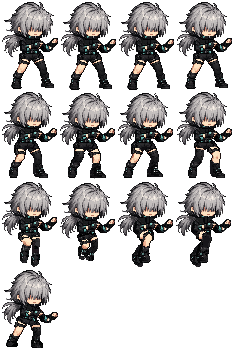
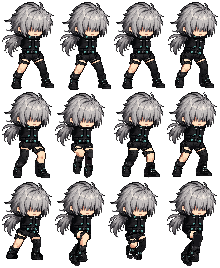
feat: 팔 없는 플레이어 스프라이트 적용과 포즈별 리그 앵커 도입
몸통 그림에서 앞팔이 빠진 스프라이트로 교체하고, 그 결과 드러난 팔 위치
문제를 고침. 프레임 13개와 애니메이션 태그 배분(idle 0~3, jump 4~6,
run 7~12)은 그대로이고 트림 정렬도 동일해 로더·애니 설정은 안 건드림.

- 팔꿈치를 실루엣 가장자리에서 4px 안으로 옮김(8 → 4). 뒷팔은 먼 쪽 팔이라
  어깨가 몸통 뒤에 있어야 하는데 가장자리에 정확히 걸려 있었고, 팔 그림은
  팔꿈치 쪽이 1px로 뾰족해 다섯 번째 열에 가서야 8px 두께가 됨. 회전할
  때마다 그 테이퍼와 몸통 사이가 벌어졌음. 서 있는 12개 프레임 전부에서
  오른쪽 여유 4px 확인(기울어진 run 프레임만 2px)
- 낙하 포즈용 앵커를 따로 둠. 이 포즈는 몸이 말리며 어깨가 y=57.5로
  11.5px 내려가는데 앵커가 한 점에 고정돼 팔이 가슴에 붙어 있었음
- 무기 그립도 같은 포즈에서 13px 내림. 어깨만 내리면 팔이 총열에 닿지
  못함 — 조준 범위 전체에서 최대 7.3px 부족하고 팔꿈치 값을 어떻게 잡아도
  해결되지 않음. 어긋난 쪽이 총이기 때문. 둘을 함께 내리면 오차 0
- 앵커 값은 이전 스프라이트와의 픽셀 diff로 측정. 사라진 픽셀이 앞팔이고
  그것이 몸통과 만나는 자리가 어깨임

테스트 3개 추가
- 낙하 앵커가 어깨를 따라 내려감
- 낙하 앵커에서도 아래팔이 그려진 길이를 유지 — 위 그립 문제를 잡은 검사
- 오버라이드 키가 실제 재생되는 프레임임

알려진 미완: 앞팔 스프라이트가 없어 어깨에서 손으로 이어지는 팔이 그려지지
않음. 리그는 뒷팔만 별도 레이어로 갖고 있고 앞팔은 몸통 그림의 일부라는
전제로 만들어졌는데, 이번 교체로 그 전제가 깨짐.

diff --git a/client/src/game/systems/backArmPose.test.ts b/client/src/game/systems/backArmPose.test.ts
@@ -1,5 +1,14 @@
 import { describe, expect, it } from 'vitest';
-import { BACK_ARM } from '@/game/config/playerRigConfig';
+import {
+  PLAYER_IDLE_FRAMES,
+  PLAYER_JUMP_FRAMES,
+  PLAYER_RUN_FRAMES,
+} from '@/game/config/playerAnimationConfig';
+import {
+  BACK_ARM,
+  BACK_ARM_ELBOW_BY_FRAME,
+  WEAPON_GRIP_BY_FRAME,
+} from '@/game/config/playerRigConfig';
 import { WEAPON_CONFIGS } from '@/game/config/weaponConfig';
 import { solveBackArmPose } from '@/game/systems/backArmPose';
 
@@ -9,7 +18,19 @@ const GRIP_FROM_CENTRE_Y = -3;
 
 const PLAYER = { x: 400, y: 300 };
 
-function poseAt(degrees: number, mirrored: boolean, barrel: number) {
+function poseAt(
+  degrees: number,
+  mirrored: boolean,
+  barrel: number,
+  elbow: { x: number; y: number } = {
+    x: BACK_ARM.elbowFromCentreX,
+    y: BACK_ARM.elbowFromCentreY,
+  },
+  grip: { x: number; y: number } = {
+    x: GRIP_FROM_CENTRE_X,
+    y: GRIP_FROM_CENTRE_Y,
+  },
+) {
   // Aiming left mirrors the rig rather than rotating past vertical, so the
   // weapon's own rotation is measured from the facing direction either way.
   const rotation = mirrored
@@ -19,12 +40,13 @@ function poseAt(degrees: number, mirrored: boolean, barrel: number) {
   return solveBackArmPose({
     playerX: PLAYER.x,
     playerY: PLAYER.y,
-    gripX:
-      PLAYER.x + (mirrored ? -GRIP_FROM_CENTRE_X : GRIP_FROM_CENTRE_X),
-    gripY: PLAYER.y + GRIP_FROM_CENTRE_Y,
+    gripX: PLAYER.x + (mirrored ? -grip.x : grip.x),
+    gripY: PLAYER.y + grip.y,
     rotation,
     mirrored,
     barrel,
+    elbowFromCentreX: elbow.x,
+    elbowFromCentreY: elbow.y,
   });
 }
 
@@ -75,6 +97,71 @@ describe('back arm pose', () => {
         expect(along).toBeGreaterThanOrEqual(BACK_ARM.minReach - 1e-6);
         expect(along).toBeLessThanOrEqual(weapon.muzzleOffset);
       }
+    }
+  });
+
+  it('follows the shoulder down in the airborne pose', () => {
+    // The falling body curls forward and drops the shoulder 11.5px. Anchored to
+    // the standing offset the arm hung off the chest, which is the one place
+    // this rig was visibly wrong once the armless sprite went in.
+    const airborne = BACK_ARM_ELBOW_BY_FRAME[PLAYER_JUMP_FRAMES.airborne];
+
+    expect(airborne).toBeDefined();
+    expect(airborne.y - BACK_ARM.elbowFromCentreY).toBeGreaterThan(8);
+
+    const standing = poseAt(0, false, 24);
+    const falling = poseAt(0, false, 24, airborne);
+    expect(falling.elbowY - standing.elbowY).toBeCloseTo(
+      airborne.y - BACK_ARM.elbowFromCentreY,
+      6,
+    );
+  });
+
+  it('keeps the forearm honest from the airborne anchor too', () => {
+    // The two overrides only work as a pair. Drop the shoulder and leave the
+    // gun standing and the forearm falls up to 7.3px short of the handguard —
+    // no elbow offset recovers that, because the gun is the end in the wrong
+    // place. This is the check that caught it.
+    const airborne = BACK_ARM_ELBOW_BY_FRAME[PLAYER_JUMP_FRAMES.airborne];
+    const airborneGrip = WEAPON_GRIP_BY_FRAME[PLAYER_JUMP_FRAMES.airborne];
+
+    expect(airborneGrip).toBeDefined();
+
+    for (const weapon of WEAPON_CONFIGS) {
+      for (let degrees = -90; degrees <= 90; degrees += 5) {
+        for (const mirrored of [false, true]) {
+          const { reach } = poseAt(
+            degrees,
+            mirrored,
+            weapon.muzzleOffset,
+            airborne,
+            airborneGrip,
+          );
+          expect(
+            Math.abs(reach - BACK_ARM.length),
+            `${weapon.id} at ${degrees}deg mirrored=${mirrored}`,
+          ).toBeLessThan(1);
+        }
+      }
+    }
+  });
+
+  it('overrides only frames the player actually plays', () => {
+    // A typo here is silent: the lookup falls back to the default and the pose
+    // simply stays wrong.
+    const played = new Set<string>([
+      ...PLAYER_IDLE_FRAMES,
+      ...PLAYER_RUN_FRAMES,
+      ...Object.values(PLAYER_JUMP_FRAMES),
+    ]);
+
+    for (const frame of [
+      ...Object.keys(BACK_ARM_ELBOW_BY_FRAME),
+      ...Object.keys(WEAPON_GRIP_BY_FRAME),
+    ]) {
+      expect(played, `${frame} is not a frame the player plays`).toContain(
+        frame,
+      );
     }
   });
 

diff --git a/client/src/game/config/playerRigConfig.ts b/client/src/game/config/playerRigConfig.ts
@@ -1,3 +1,5 @@
+import { PLAYER_JUMP_FRAMES } from '@/game/config/playerAnimationConfig';
+
 /**
  * How the player is assembled from layers.
  *
@@ -18,8 +20,19 @@ export const BACK_ARM = {
   originX: 0.5 / 19,
   originY: 10.5 / 14,
 
-  /** The elbow's offset from the player sprite's centre. Mirrors when facing left. */
-  elbowFromCentreX: 8,
+  /**
+   * The elbow's offset from the player sprite's centre. Mirrors when facing
+   * left. Poses that carry the shoulder somewhere else override it below.
+   *
+   * Buried 4px inside the torso rather than set on the silhouette's edge. The
+   * arm this hinges is the far one, so its shoulder belongs behind the body,
+   * and the art tapers to a point at the pivot — 1px at the elbow, full 8px of
+   * limb only by its fifth column. Pinned to the edge, every angle the arm
+   * turned to opened a wedge between that taper and the torso. 4px is what the
+   * standing frames have to spare: the body runs 4px further right at the elbow
+   * row in all of them, 2px in the one run frame that leans away.
+   */
+  elbowFromCentreX: 4,
   elbowFromCentreY: 1,
 
   /** Elbow to hand, and the direction the art already points at rest. */
@@ -38,11 +51,54 @@ export const BACK_ARM = {
    * The hand is not pinned to one spot: a hand on a handguard slides, so rather
    * than asking whether the arm can reach a fixed point, the rig solves for the
    * point along the barrel that an arm of exactly the right length reaches. That
-   * has a solution at nearly every angle. Measured over -90..90 degrees the hand
-   * wants to sit between 11 and 21px out; the shotgun, burst and rail rifles
-   * need no stretch at all, and only the SMG clamps — its barrel ends at 20px —
-   * for a worst-case shortfall of 0.8px, which is under one pixel of art.
+   * has a solution at nearly every angle. Measured over -90..90 degrees, both
+   * facings and all four weapons, the hand sits between 11.6 and 19.6px out and
+   * never reaches either stop, so the forearm holds its drawn length exactly.
+   * That is a consequence of seating the elbow deeper: at the old edge anchor
+   * the SMG clamped on 22 of those 296 angles and fell 0.8px short at worst.
    */
   minReach: 7,
   muzzleClearance: 4,
 } as const;
+
+/**
+ * Poses that carry the shoulder somewhere the default anchor does not follow.
+ *
+ * One anchor for every frame works only while the torso holds one attitude. It
+ * does not: in the airborne pose the body curls forward and the shoulder drops
+ * to y=57.5 of the 96x96 frame, 11.5px below where it sits in every other pose.
+ * Pinned to the standing anchor the arm hangs off the chest instead of the
+ * shoulder, which is what reads as wrong on the way down from a jump.
+ *
+ * Measured by diffing this sprite against the armed one it replaced: the pixels
+ * that disappeared are the front arm, and where they met the torso is the
+ * shoulder. Each value is then buried the same 4px inside the silhouette as the
+ * standing anchor, so a pose moves the elbow exactly as far as it moves the
+ * joint and no further.
+ */
+export const BACK_ARM_ELBOW_BY_FRAME: Record<
+  string,
+  { x: number; y: number }
+> = {
+  [PLAYER_JUMP_FRAMES.airborne]: { x: 6, y: 12 },
+};
+
+/**
+ * Where the weapon hangs, for the poses that move the hand holding it.
+ *
+ * The gun has to move with the shoulder or the arm cannot span the two. That is
+ * not a preference: with the grip fixed and the elbow on the airborne shoulder,
+ * the forearm falls up to 7.3px short of the handguard across the aim range —
+ * half its own length — and there is no elbow offset that fixes it, because the
+ * gun is the end that is in the wrong place. Dropping both puts the reach error
+ * back to zero.
+ *
+ * The same diff that located the shoulder locates the hand: the airborne pose
+ * carries it 13px down and 2px forward from where it rests standing.
+ */
+export const WEAPON_GRIP_BY_FRAME: Record<
+  string,
+  { x: number; y: number }
+> = {
+  [PLAYER_JUMP_FRAMES.airborne]: { x: 7, y: 10 },
+};

diff --git a/client/src/game/systems/WeaponFeedback.ts b/client/src/game/systems/WeaponFeedback.ts
@@ -1,4 +1,5 @@
 import Phaser from 'phaser';
+import { WEAPON_GRIP_BY_FRAME } from '@/game/config/playerRigConfig';
 import { PLAYER_STACK_DEPTH } from '@/game/config/renderDepth';
 import { BackArm } from '@/game/systems/BackArm';
 import { muzzlePoint } from '@/game/systems/muzzlePoint';
@@ -20,6 +21,8 @@ const GRIP_ORIGIN_Y = 14 / 24;
  */
 const HAND_FROM_CENTRE_X = 5;
 const HAND_FROM_CENTRE_Y = -3;
+
+const DEFAULT_GRIP = { x: HAND_FROM_CENTRE_X, y: HAND_FROM_CENTRE_Y };
 
 /**
  * Recoil settles on a half-life rather than a flat rate per millisecond. A flat
@@ -80,6 +83,8 @@ export class WeaponFeedback {
       aimPoint.y,
     );
     const aimingLeft = Math.cos(angle) < 0;
+    // The hand belongs to the pose on screen, same as the shoulder does.
+    const grip = WEAPON_GRIP_BY_FRAME[this.player.frame.name] ?? DEFAULT_GRIP;
     // Climb is always away from the ground, and the sprite is mirrored when
     // aiming left, so the sign has to follow the flip or the barrel dips.
     const climbed = angle + (aimingLeft ? this.climb : -this.climb);
@@ -91,9 +96,9 @@ export class WeaponFeedback {
       // pushes back along the aim vector from wherever the hand actually is.
       .setPosition(
         this.player.x +
-          (aimingLeft ? -HAND_FROM_CENTRE_X : HAND_FROM_CENTRE_X) -
+          (aimingLeft ? -grip.x : grip.x) -
           Math.cos(angle) * this.recoil,
-        this.player.y + HAND_FROM_CENTRE_Y - Math.sin(angle) * this.recoil,
+        this.player.y + grip.y - Math.sin(angle) * this.recoil,
       )
       .setRotation(climbed)
       .setFlipY(aimingLeft);

diff --git a/client/src/game/systems/backArmPose.ts b/client/src/game/systems/backArmPose.ts
@@ -12,6 +12,13 @@ export type BackArmInput = {
   mirrored: boolean;
   /** Grip to muzzle, so the hand knows where the handguard runs out. */
   barrel: number;
+  /**
+   * Where the shoulder is in the pose being drawn, as an offset from the
+   * sprite's centre. The caller resolves it per frame because the torso does
+   * not hold one attitude across the animation.
+   */
+  elbowFromCentreX: number;
+  elbowFromCentreY: number;
 };
 
 export type BackArmPose = {
@@ -40,13 +47,22 @@ const clamp = (value: number, low: number, high: number) =>
  * Kept apart from the sprite so the geometry can be checked without a renderer.
  */
 export function solveBackArmPose(input: BackArmInput): BackArmPose {
-  const { playerX, playerY, gripX, gripY, rotation, mirrored, barrel } = input;
+  const {
+    playerX,
+    playerY,
+    gripX,
+    gripY,
+    rotation,
+    mirrored,
+    barrel,
+    elbowFromCentreX,
+    elbowFromCentreY,
+  } = input;
   const cos = Math.cos(rotation);
   const sin = Math.sin(rotation);
 
-  const elbowX =
-    playerX + (mirrored ? -BACK_ARM.elbowFromCentreX : BACK_ARM.elbowFromCentreX);
-  const elbowY = playerY + BACK_ARM.elbowFromCentreY;
+  const elbowX = playerX + (mirrored ? -elbowFromCentreX : elbowFromCentreX);
+  const elbowY = playerY + elbowFromCentreY;
 
   // The barrel line lifted to the handguard, measured from the elbow. The lift
   // flips with the weapon for the same reason the muzzle does: aiming left

diff --git a/client/src/game/systems/BackArm.ts b/client/src/game/systems/BackArm.ts
@@ -1,7 +1,15 @@
 import Phaser from 'phaser';
-import { BACK_ARM } from '@/game/config/playerRigConfig';
+import {
+  BACK_ARM,
+  BACK_ARM_ELBOW_BY_FRAME,
+} from '@/game/config/playerRigConfig';
 import { PLAYER_STACK_DEPTH } from '@/game/config/renderDepth';
 import { solveBackArmPose } from '@/game/systems/backArmPose';
+
+const DEFAULT_ELBOW = {
+  x: BACK_ARM.elbowFromCentreX,
+  y: BACK_ARM.elbowFromCentreY,
+};
 
 /**
  * The support arm, hinged on the elbow.
@@ -28,6 +36,11 @@ export class BackArm {
   }
 
   update(weapon: Phaser.GameObjects.Image, mirrored: boolean, barrel: number) {
+    // The shoulder belongs to whichever pose is on screen this frame, so the
+    // anchor is read at draw time rather than fixed when the arm is built.
+    const elbow =
+      BACK_ARM_ELBOW_BY_FRAME[this.player.frame.name] ?? DEFAULT_ELBOW;
+
     const pose = solveBackArmPose({
       playerX: this.player.x,
       playerY: this.player.y,
@@ -36,6 +49,8 @@ export class BackArm {
       rotation: weapon.rotation,
       mirrored,
       barrel,
+      elbowFromCentreX: elbow.x,
+      elbowFromCentreY: elbow.y,
     });
 
     this.sprite
